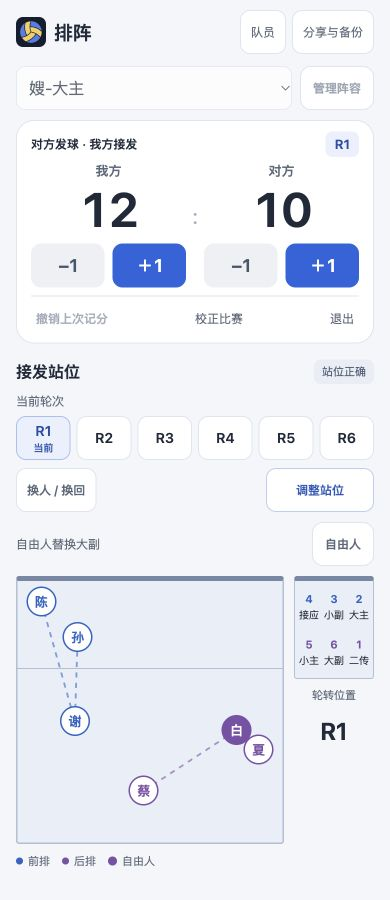
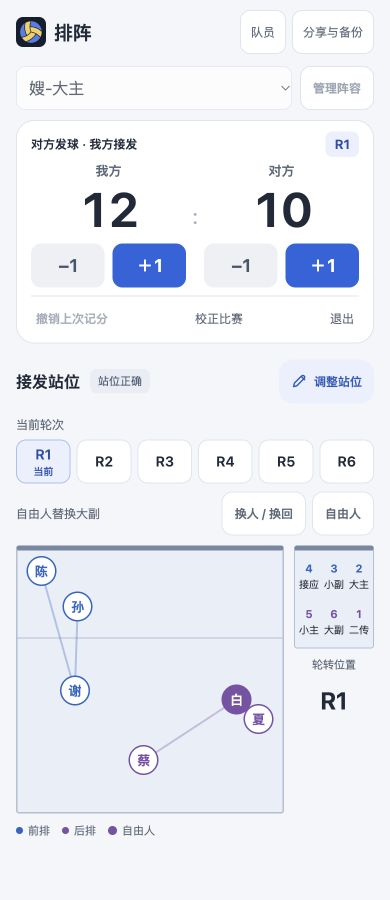
Update Site source

diff --git a/index.html b/index.html
@@ -1,8 +1,8 @@
 <!doctype html><html lang="zh-CN"><head><meta charset="utf-8"><meta name="viewport" content="width=device-width,initial-scale=1,viewport-fit=cover"><meta name="theme-color" content="#f4f6f9"><meta name="apple-mobile-web-app-title" content="排阵"><meta name="apple-mobile-web-app-capable" content="yes"><meta name="apple-mobile-web-app-status-bar-style" content="default"><meta name="description" content="排阵排球战术板：六轮接发站位、记分轮转、换人及离线保存。"><title>排阵 · 排球战术板</title><link rel="manifest" href="./manifest.webmanifest"><link rel="icon" href="./icons/paizhen-192-v2.png" sizes="192x192"><link rel="apple-touch-icon" href="./icons/apple-touch-icon-v2.png" sizes="180x180"><link rel="stylesheet" href="./styles.css"></head><body data-theme="ios"><main class="device" id="device"><div class="app"><header class="topbar"><div class="brand"><div class="brand-mark"><img src="./icons/paizhen-mark.svg" alt="" aria-hidden="true" width="30" height="30"></div><strong>排阵</strong></div><div class="header-tools"><button class="quiet" id="nav-roster">队员</button><button class="quiet" id="help">分享与备份</button></div></header><span id="save-status" role="status" hidden></span><p class="save-error" id="save-error" role="alert" hidden></p><div class="workspace"><div class="match-panel"><div class="lineup-bar"><select id="lineup-select" aria-label="选择阵容"></select><button class="secondary" id="manage-lineups">管理阵容</button></div><section class="welcome" id="welcome"><button class="primary" id="start">开始比赛 / 训练</button></section><section id="scoreboard" class="scoreboard" aria-label="记分板"><div class="score-meta"><strong id="serve-label">对方发球 · 我方接发</strong><span id="match-caption">R1</span></div><div class="score-row"><div><div class="team-name ours" id="team-us">我方</div><div class="score" id="score-us" aria-live="polite" aria-atomic="true">00</div><div class="score-controls"><button class="score-minus" id="minus-us" aria-label="我方减一分">−1</button><button class="score-add" id="add-us" aria-label="我方加一分">＋1</button></div></div><span class="separator">:</span><div class="opponent"><div class="team-name" id="team-them">对方</div><div class="score" id="score-them" aria-live="polite" aria-atomic="true">00</div><div class="score-controls"><button class="score-minus" id="minus-them" aria-label="对方减一分">−1</button><button class="score-add" id="add-them" aria-label="对方加一分">＋1</button></div></div></div><div class="scoreboard-tools"><button class="score-undo" id="undo" disabled>撤销上次记分</button><button class="quiet" id="correct">校正比赛</button><button class="quiet" id="exit">退出</button></div></section>
 </div><section class="tactics-panel">
-<div class="preview-banner" id="preview-banner" hidden><span id="preview-copy"></span><button id="return-current">返回记分</button></div><div class="section-title"><h2 id="court-heading">接发站位</h2><span class="status" id="valid-status">站位关系正确</span></div>
-<section class="round-area"><div class="round-heading"><span id="round-label">当前轮次</span></div><div class="rounds" id="rounds" aria-label="选择预览轮次"></div></section><div class="court-tools"><button class="secondary" id="substitute">换人 / 换回</button><button id="restore-round" hidden>恢复本轮默认</button><button id="cancel-edit" class="quiet" hidden>取消调整</button><button class="secondary" id="edit" aria-pressed="false">调整站位</button></div>
-<div class="libero-bar" id="libero-bar"><span id="libero-status"></span><button class="secondary" id="libero-open">自由人</button></div><section class="court-layout" aria-label="接发阵型"><div class="court-panel"><div class="court" id="court"><svg class="links" viewBox="0 0 100 100" preserveAspectRatio="none" aria-hidden="true"><polyline id="front-link"></polyline><polyline id="back-link"></polyline></svg><div id="players"></div></div><div class="legend"><span><i></i>前排</span><span><i></i>后排</span><span><i style="background:var(--back);width:9px;height:9px"></i>自由人</span></div></div><aside class="mini-aside"><div class="mini-court" id="mini-court" aria-label="标准轮转位置"></div><div class="mini-title">轮转位置</div><div class="mini-round" id="mini-round">R1<small>当前轮次</small></div></aside></section>
+<div class="preview-banner" id="preview-banner" hidden><span id="preview-copy"></span><button id="return-current">返回记分</button></div><div class="section-title"><div class="court-title"><h2 id="court-heading">接发站位</h2><span class="status" id="valid-status">站位关系正确</span></div><button class="court-edit" id="edit" aria-pressed="false"><svg class="edit-icon" viewBox="0 0 20 20" aria-hidden="true"><path d="m12 4 4 4M4 12l8.5-8.5a2.1 2.1 0 0 1 3 3L7 15l-4 1z"/></svg><svg class="done-icon" viewBox="0 0 20 20" aria-hidden="true"><path d="m4 10 4 4 8-8"/></svg><span id="edit-label">调整站位</span></button></div>
+<section class="round-area"><div class="round-heading"><span id="round-label">当前轮次</span></div><div class="rounds" id="rounds" aria-label="选择预览轮次"></div></section><div class="court-tools" id="edit-toolbar" hidden><button id="restore-round" hidden>恢复本轮默认</button><button id="cancel-edit" class="quiet" hidden>取消调整</button></div>
+<div class="libero-bar" id="libero-bar"><span id="libero-status"></span><div class="personnel-tools"><button class="secondary" id="substitute">换人 / 换回</button><button class="secondary" id="libero-open">自由人</button></div></div><section class="court-layout" aria-label="接发阵型"><div class="court-panel"><div class="court" id="court"><svg class="links" viewBox="0 0 100 100" preserveAspectRatio="none" aria-hidden="true"><polyline id="front-link"></polyline><polyline id="back-link"></polyline><g id="relationship-links"></g></svg><div id="players"></div></div><div class="legend"><span><i></i>前排</span><span><i></i>后排</span><span><i style="background:var(--back);width:9px;height:9px"></i>自由人</span></div></div><aside class="mini-aside"><div class="mini-court" id="mini-court" aria-label="标准轮转位置"></div><div class="mini-title">轮转位置</div><div class="mini-round" id="mini-round">R1<small>当前轮次</small></div></aside></section>
 <p id="relation-errors" class="rules-note" aria-live="polite"></p>
 
 </section></div></div></main>
@@ -16,7 +16,7 @@
 <dialog id="libero-dialog" aria-labelledby="libero-title"><form id="libero-form"><div class="dialog-heading"><h2 id="libero-title">自由人</h2><button type="button" data-close aria-label="关闭自由人替换">×</button></div><p id="libero-current"></p><label class="field">替换角色<select id="libero-role"></select></label><label class="confirmation" id="libero-confirm-label"><input type="checkbox" id="libero-confirm">当前为死球，且尚未鸣发球哨</label><p class="form-error" id="libero-error" role="alert"></p><button class="primary" id="libero-submit" style="width:100%" type="submit">确认</button><details id="libero-records"><summary>替换记录</summary><div id="libero-history"></div></details></form></dialog>
 <dialog id="exit-dialog" aria-labelledby="exit-title"><h2 id="exit-title">将这套站位留到下次？</h2><p id="exit-copy"></p><div class="dialog-buttons"><button class="primary" id="exit-save">保存到当前阵容并退出</button><button class="secondary" id="exit-discard">不保存站位并退出</button><button class="quiet" data-close>继续比赛</button></div></dialog>
 <dialog id="confirm-dialog" aria-labelledby="confirm-title"><h2 id="confirm-title">确认操作</h2><p id="confirm-copy"></p><div class="dialog-buttons"><button class="primary" id="confirm-yes">确认</button><button class="secondary" data-close>取消</button></div></dialog>
-<dialog id="help-dialog" aria-labelledby="help-title"><div class="dialog-heading"><h2 id="help-title">分享与备份</h2><button data-close aria-label="关闭使用说明">×</button></div><div class="share-shortcuts"><button class="primary" id="open-share">分享队员与阵型</button><button class="secondary" id="open-import">粘贴链接导入</button></div><div class="help-copy"><h3>记分</h3><p>点击 ＋1 记分，−1 修正分数；误点后使用比分板内的“撤销上次记分”。“校正比赛”可直接修改比分、轮次和发球方。</p><h3>队员与阵型</h3><p>通过顶部阵容选择器切换，使用“管理阵容”新建、复制或重命名。在“队员”中编辑共用名单和当前阵容首发。比赛中使用“换人 / 换回”更换队员。点击“调整站位”后拖动圆圈，再点“完成”；“取消调整”可恢复进入编辑前的站位。六轮按钮用于切换查看，点击“返回 R… 记分”继续记分。</p><h3>保存与备份</h3><p>关闭页面后可继续上次比赛。退出比赛时，选择是否将本场站位保存回当前阵容。通过复制、粘贴分享链接保存或导入队员与阵型。</p><h3>添加到主屏幕</h3><p>在 iPhone Safari 中点击“分享 → 添加到主屏幕”。首次联网打开，等待离线资源准备完成后即可离线使用。</p><p id="offline-status" role="status">离线资源准备中…</p><button class="secondary" id="check-update">检查更新</button><button class="primary" id="apply-update" hidden>更新应用</button><a class="update-link" href="./update.html">打不开新版？进入独立更新页</a><p class="app-version">版本 2026.10.22.2</p></div></dialog>
+<dialog id="help-dialog" aria-labelledby="help-title"><div class="dialog-heading"><h2 id="help-title">分享与备份</h2><button data-close aria-label="关闭使用说明">×</button></div><div class="share-shortcuts"><button class="primary" id="open-share">分享队员与阵型</button><button class="secondary" id="open-import">粘贴链接导入</button></div><div class="help-copy"><h3>记分</h3><p>点击 ＋1 记分，−1 修正分数；误点后使用比分板内的“撤销上次记分”。“校正比赛”可直接修改比分、轮次和发球方。</p><h3>队员与阵型</h3><p>通过顶部阵容选择器切换，使用“管理阵容”新建、复制或重命名。在“队员”中编辑共用名单和当前阵容首发。比赛中使用“换人 / 换回”更换队员。点击“调整站位”后拖动圆圈，再点“完成”；“取消调整”可恢复进入编辑前的站位。六轮按钮用于切换查看，点击“返回 R… 记分”继续记分。</p><h3>保存与备份</h3><p>关闭页面后可继续上次比赛。退出比赛时，选择是否将本场站位保存回当前阵容。通过复制、粘贴分享链接保存或导入队员与阵型。</p><h3>添加到主屏幕</h3><p>在 iPhone Safari 中点击“分享 → 添加到主屏幕”。首次联网打开，等待离线资源准备完成后即可离线使用。</p><p id="offline-status" role="status">离线资源准备中…</p><button class="secondary" id="check-update">检查更新</button><button class="primary" id="apply-update" hidden>更新应用</button><a class="update-link" href="./update.html">打不开新版？进入独立更新页</a><p class="app-version">版本 2026.10.22.3</p></div></dialog>
 <dialog id="share-dialog" aria-labelledby="share-title"><div class="dialog-heading"><h2 id="share-title">分享队员与阵型</h2><button data-close aria-label="关闭分享">×</button></div><label class="field">分享内容<select id="share-source"></select></label><p class="share-summary" id="share-summary"></p><label class="field">分享链接<textarea id="share-link" rows="3" readonly aria-label="生成的分享链接"></textarea></label><p class="share-note">短链接通过 da.gd 在线生成。收到链接的人可导入名单、六轮阵型和自由人预设，不包含比分或比赛记录。</p><p class="form-error" id="share-error" role="alert"></p><div class="share-actions"><button class="primary" id="copy-share" disabled>复制短链接</button><button class="secondary" id="copy-full-share" disabled>复制完整链接（可离线生成）</button></div></dialog>
 <dialog id="import-dialog" aria-labelledby="import-title"><div class="dialog-heading"><h2 id="import-title">从链接导入</h2><button data-close aria-label="关闭链接导入">×</button></div><label class="field">队友的分享链接<textarea id="import-link" rows="4" placeholder="在这里粘贴队友的短链接或完整链接" spellcheck="false" autocapitalize="off"></textarea></label><button class="primary" id="preview-import" style="width:100%">预览队员与阵型</button><p class="form-error" id="import-error" role="alert"></p></dialog>
 <dialog id="import-preview-dialog" aria-labelledby="import-preview-title"><div class="dialog-heading"><h2 id="import-preview-title">导入队员与阵型</h2><button data-close aria-label="取消导入">×</button></div><p class="share-summary" id="import-summary"></p><div class="import-lineup" id="import-lineup"></div><p class="share-note">作为新阵容导入，保留已有阵容；同名同位置队员复用，其他队员加入共用名单。</p><p class="form-error" id="import-preview-error" role="alert"></p><div class="dialog-buttons"><button class="primary" id="apply-import">确认导入</button><button class="secondary" data-close>取消</button></div></dialog>

diff --git a/app.js b/app.js
@@ -2,9 +2,10 @@ import {activateLatest} from './updates.js';
 import {DEFAULT_LIBERO_ROLES,defaultLiberoChoices,migrateLiberoState,eligibleLiberoRoles,rolePosition,liberoReplacementError,setLibero,calibrateLibero} from './libero.js';
 import {shortenLink} from './shortlinks.js';
 import {templateSnapshot,makeShareLink,parseShareLink,importTemplate} from './sharing.js';
-import {ROLES,PLAYER_POSITIONS,shortName,resolvePlayerPosition,POSITIONS,clone,id,createState,startMatch,roleAt,displayedPlayer,scorePoint,undoPoint,correctMatch,checkFormation,substitute,returnStarter,endMatch,validateState,saveRoster,migrateLineups,syncLineup,createLineup,selectLineup,renameLineup,deleteLineup,nextLineupName} from './core.js';
+import {ROLES,PLAYER_POSITIONS,shortName,resolvePlayerPosition,POSITIONS,clone,id,createState,startMatch,roleAt,displayedPlayer,scorePoint,undoPoint,correctMatch,checkFormation,positionRelations,substitute,returnStarter,endMatch,validateState,saveRoster,migrateLineups,syncLineup,createLineup,selectLineup,renameLineup,deleteLineup,nextLineupName} from './core.js';
 import {openStore,readState,writeState} from './storage.js';
 const $=id=>document.getElementById(id);
+let activePosition=null,dragCleanup=null;
 let state,viewRound=0,editing=false,editSnapshot=null,mode='match',saveQueue=Promise.resolve(),revision=0,storageBlocked=false,rosterDraft=[],rosterLineup=[],rosterLiberoPlan=[],confirmAction,rosterReturnToSub=false,toastTimer,workerRegistration,updateRequested=false,checkForAppUpdate=async()=>{};
 function el(tag,props={},...children){const e=document.createElement(tag);for(const [k,v]of Object.entries(props)){if(k==='text')e.textContent=v;else if(k==='class')e.className=v;else e.setAttribute(k,v)}for(const c of children)e.append(c);return e}
 const playerName=pid=>state.players.find(p=>p.id===pid)?.name||'未安排';
@@ -19,6 +20,7 @@ function active(){return state.match||{lineup:state.lineup,formations:state.form
 function formations(){return mode==='default'?state.formations:active().formations;}
 function finishEditing(){if(editing){editing=false;editSnapshot=null;save();render();}}
 function render(){
+  clearRelationshipFocus(false);
   const m=active(),hasMatch=!!state.match,preview=hasMatch&&viewRound!==m.round;
   selectOptions($('lineup-select'),state.lineupSets.map(x=>({value:x.id,label:x.name})),state.activeLineupId);
   $('lineup-select').disabled=hasMatch||editing;$('manage-lineups').disabled=hasMatch||editing;
@@ -36,14 +38,14 @@ function render(){
   const server=hasMatch?playerName(m.lineup[roleAt(1,m.round)]):'';
   $('serve-label').textContent=!hasMatch?'未开始':m.serving?`我方发球 · ${server}`:'对方发球 · 我方接发';
   $('court-heading').textContent=!hasMatch?'接发阵型':preview?`R${viewRound+1} 接发预览`:m.serving?'接发预览':'接发站位';
-  $('preview-banner').hidden=!preview&&!editing;
+  $('preview-banner').hidden=!preview||editing;
   $('preview-copy').textContent=editing?`调整 R${viewRound+1} 站位`:`查看 R${viewRound+1} · 比赛 R${m.round+1}`;
   $('players').replaceChildren();$('mini-court').replaceChildren();
   for(const p of POSITIONS){
     const {player,role,libero,back}=displayedPlayer(state,m,p,viewRound);
     const full=player?.name||'未安排',short=shortName(player?.name);
     const b=el('button',{class:'player'+(back?' back':'')+(libero?' libero':''),'data-position':p,'aria-label':`${full}，${libero?'自由人替换'+ROLES[role]:ROLES[role]}，${back?'后排':'前排'}，${p}号位`,title:`${full} · ${libero?'自由人（替换'+ROLES[role]+'）':ROLES[role]}`},el('b',{text:short}));
-    b.disabled=!editing;b.addEventListener('pointerdown',startDrag);b.addEventListener('keydown',e=>moveByKeyboard(e,p));$('players').append(b);
+    b.disabled=!editing;b.addEventListener('pointerdown',startDrag);b.addEventListener('keydown',e=>moveByKeyboard(e,p));b.addEventListener('blur',()=>{if(!dragCleanup&&activePosition===p)clearRelationshipFocus();});$('players').append(b);
     const original=state.players.find(x=>x.id===m.lineup[role]);
     const cell=el('div',{class:'mini-cell'},el('i',{text:p}),el('span',{text:ROLES[role]}));
     cell.title=libero?`${full}替换${original?.name||ROLES[role]}`:full;$('mini-court').append(cell);
@@ -57,7 +59,7 @@ function render(){
   $('round-label').textContent=preview?'查看轮次':'当前轮次';
   $('rounds').setAttribute('aria-label','选择查看轮次');
   $('return-current').hidden=!preview||editing;$('return-current').textContent=`返回 R${m.round+1} 记分`;
-  $('court').classList.toggle('editing',editing);$('edit').textContent=editing?'完成':'调整站位';$('cancel-edit').hidden=!editing;
+  $('court').classList.toggle('editing',editing);$('edit-label').textContent=editing?'完成':'调整站位';$('edit-toolbar').hidden=!editing;$('cancel-edit').hidden=!editing;
   $('edit').setAttribute('aria-pressed',String(editing));
   $('restore-round').hidden=!editing;
   $('restore-round').textContent=mode==='default'?'本轮恢复规整站位':'恢复本轮已存站位';
@@ -68,22 +70,41 @@ function render(){
   $('libero-open').disabled=!m.lineup[6]||preview;
   updateGeometry();
 }
+function clearRelationshipFocus(update=true){
+  const cleanup=dragCleanup;dragCleanup=null;cleanup?.();activePosition=null;
+  if(update)updateGeometry();
+}
 function updateGeometry(){
   const coords=formations()[viewRound],errors=checkFormation(coords),bad=new Set(errors.flatMap(e=>e.positions));
+  const relations=activePosition===null?[]:positionRelations(coords,activePosition),neighbors=new Set(relations.map(r=>r.neighbor));
+  $('court').classList.toggle('has-active-player',activePosition!==null);
   for(const [name,positions,color]of [['front',[4,3,2],'var(--front)'],['back',[5,6,1],'var(--back)']]){
-    const line=$(name+'-link');line.setAttribute('points',positions.map(p=>coords[p].join(',')).join(' '));line.style.stroke=positions.some(p=>bad.has(p))?'#e45568':color;
+    const line=$(name+'-link');line.setAttribute('points',positions.map(p=>coords[p].join(',')).join(' '));line.style.stroke=positions.some(p=>bad.has(p))?'var(--error)':color;
   }
-  document.querySelectorAll('.player').forEach(b=>{const p=+b.dataset.position;b.style.left=coords[p][0]+'%';b.style.top=coords[p][1]+'%';b.classList.toggle('invalid',bad.has(p));});
+  $('relationship-links').replaceChildren(...relations.map(r=>{
+    const line=document.createElementNS('http://www.w3.org/2000/svg','line');
+    for(const [key,value]of Object.entries({x1:coords[r.from][0],y1:coords[r.from][1],x2:coords[r.to][0],y2:coords[r.to][1],class:'relation-link'+(r.valid?'':' invalid'),'data-from':r.from,'data-to':r.to}))line.setAttribute(key,value);
+    line.style.stroke=r.valid?([4,3,2].includes(activePosition)?'var(--front)':'var(--back)'):'var(--error)';return line;
+  }));
+  document.querySelectorAll('.player').forEach(b=>{const p=+b.dataset.position;b.style.left=coords[p][0]+'%';b.style.top=coords[p][1]+'%';b.classList.toggle('invalid',bad.has(p));b.classList.toggle('selected-player',activePosition===p);b.classList.toggle('related-player',neighbors.has(p));b.classList.toggle('unrelated-player',activePosition!==null&&activePosition!==p&&!neighbors.has(p));});
   $('valid-status').textContent=errors.length?'站位需调整':'站位正确';$('valid-status').classList.toggle('error',!!errors.length);
   $('relation-errors').textContent=errors.map(e=>e.message).join('；');$('relation-errors').hidden=!errors.length;
 }
 function startDrag(e){
-  if(!editing)return;e.preventDefault();const b=e.currentTarget,p=+b.dataset.position,start=[e.clientX,e.clientY],origin=[...formations()[viewRound][p]],rect=$('court').getBoundingClientRect();b.setPointerCapture(e.pointerId);
-  const move=event=>{formations()[viewRound][p]=[Math.max(9,Math.min(91,origin[0]+(event.clientX-start[0])/rect.width*100)),Math.max(8,Math.min(92,origin[1]+(event.clientY-start[1])/rect.height*100))];updateGeometry();};
-  const stop=()=>{b.removeEventListener('pointermove',move);b.removeEventListener('pointerup',stop);b.removeEventListener('pointercancel',stop);};
-  b.addEventListener('pointermove',move);b.addEventListener('pointerup',stop);b.addEventListener('pointercancel',stop);
+  if(!editing||e.isPrimary===false||e.button!==0)return;
+  e.preventDefault();clearRelationshipFocus(false);
+  const b=e.currentTarget,p=+b.dataset.position,start=[e.clientX,e.clientY],origin=[...formations()[viewRound][p]],rect=$('court').getBoundingClientRect();
+  activePosition=p;b.setPointerCapture(e.pointerId);updateGeometry();
+  const move=event=>{if(event.pointerId!==e.pointerId)return;formations()[viewRound][p]=[Math.max(9,Math.min(91,origin[0]+(event.clientX-start[0])/rect.width*100)),Math.max(8,Math.min(92,origin[1]+(event.clientY-start[1])/rect.height*100))];updateGeometry();};
+  const stop=event=>{if(event.pointerId===e.pointerId)clearRelationshipFocus();};
+  dragCleanup=()=>{b.removeEventListener('pointermove',move);for(const type of ['pointerup','pointercancel','lostpointercapture'])b.removeEventListener(type,stop);if(b.hasPointerCapture(e.pointerId))b.releasePointerCapture(e.pointerId);};
+  b.addEventListener('pointermove',move);for(const type of ['pointerup','pointercancel','lostpointercapture'])b.addEventListener(type,stop);
 }
-function moveByKeyboard(e,p){if(!editing||!['ArrowUp','ArrowDown','ArrowLeft','ArrowRight'].includes(e.key))return;e.preventDefault();const [x,y]=formations()[viewRound][p];formations()[viewRound][p]=[Math.max(9,Math.min(91,x+(e.key==='ArrowRight'?1:e.key==='ArrowLeft'?-1:0))),Math.max(8,Math.min(92,y+(e.key==='ArrowDown'?1:e.key==='ArrowUp'?-1:0)))];updateGeometry();}
+function moveByKeyboard(e,p){
+  if(!editing||!['ArrowUp','ArrowDown','ArrowLeft','ArrowRight'].includes(e.key))return;
+  e.preventDefault();activePosition=p;const [x,y]=formations()[viewRound][p];
+  formations()[viewRound][p]=[Math.max(9,Math.min(91,x+(e.key==='ArrowRight'?1:e.key==='ArrowLeft'?-1:0))),Math.max(8,Math.min(92,y+(e.key==='ArrowDown'?1:e.key==='ArrowUp'?-1:0)))];updateGeometry();
+}
 function run(action){try{action();save();render();}catch(e){toast(e.message)}}
 function selectOptions(select,options,value){select.replaceChildren(...options.map(o=>el('option',{value:o.value,text:o.label})));if(value!==undefined)select.value=String(value);}
 function roundOptions(select,value){selectOptions(select,Array.from({length:6},(_,i)=>({value:i,label:'R'+(i+1)})),value)}

diff --git a/styles.css b/styles.css
@@ -60,8 +60,15 @@ button:focus-visible, input:focus-visible, select:focus-visible, textarea:focus-
 .scoreboard-tools button { min-height: 44px; padding: 0 5px; font-size: 12px; }
 .score-undo { color: var(--accent); font-weight: 550; }
 .scoreboard-tools button:disabled { color: #a6aebb; }
-.section-title { display: flex; align-items: center; justify-content: space-between; gap: 8px; margin: 0 0 8px; }
+.section-title { display: flex; align-items: center; justify-content: space-between; gap: 12px; margin: 0 0 12px; }
+.court-title { display: flex; flex-wrap: wrap; align-items: center; gap: 6px 10px; min-width: 0; }
 .section-title h2 { margin: 0; font-size: 16px; font-weight: 650; }
+#edit { display: inline-flex; align-items: center; justify-content: center; gap: 6px; flex-shrink: 0; min-height: 44px; padding: 0 12px; border: 0; border-radius: 14px; background: var(--soft); color: #275abd; font-size: 12px; font-weight: 600; }
+#edit svg { width: 17px; height: 17px; fill: none; stroke: currentColor; stroke-width: 1.7; stroke-linecap: round; stroke-linejoin: round; }
+#edit .done-icon { display: none; }
+#edit[aria-pressed=true] { background: var(--accent); color: white; }
+#edit[aria-pressed=true] .edit-icon { display: none; }
+#edit[aria-pressed=true] .done-icon { display: block; }
 .status { flex-shrink: 0; padding: 4px 8px; border-radius: 7px; background: #e9eef5; color: #4a5c73; font-size: 11px; white-space: nowrap; }
 .status.error { background: #ffedf0; color: var(--error); }
 .round-area { margin-bottom: 8px; }
@@ -71,18 +78,20 @@ button:focus-visible, input:focus-visible, select:focus-visible, textarea:focus-
 .round[aria-pressed=true] { border-color: #a7c1f2; background: var(--soft); color: #214eaa; }
 .round small { display: block; margin-top: 2px; color: #214eaa; font-size: 10px; font-weight: 450; }
 .round small:empty { display: none; }
-.court-tools { display: flex; align-items: center; gap: 6px; margin-bottom: 10px; }
-.court-tools button { min-height: 44px; padding: 0 10px; border-radius: 10px; font-size: 12px; }
-#edit { margin-left: auto; min-width: 108px; border: 1px solid #becfed; background: var(--card); color: #275abd; }
-#edit[aria-pressed=true] { min-width: 72px; border-color: var(--accent); background: var(--accent); color: white; }
-#restore-round { background: #e8edf4; color: #526175; }
-#cancel-edit { padding: 0 8px; color: var(--muted); }
+.court-tools { display: flex; align-items: center; justify-content: space-between; gap: 8px; margin: 0 0 10px; padding: 0 2px; }
+.court-tools button { min-height: 44px; padding: 0 8px; border-radius: 10px; font-size: 12px; background: transparent; color: var(--muted); }
+#restore-round { order: 1; color: #275abd; }
+.personnel-tools { display: flex; align-items: center; gap: 6px; }
+.personnel-tools button { font-size: 12px; padding: 0 9px; }
 .court-layout { display: grid; grid-template-columns: minmax(0, 1fr) 80px; align-items: start; gap: 10px; }
 .court { position: relative; width: 100%; aspect-ratio: 1; overflow: hidden; isolation: isolate; border: 1.5px solid var(--court-line); border-top: 5px solid var(--net); border-radius: 3px; background: var(--court); }
 .court::before { content: ""; position: absolute; left: 0; right: 0; top: 33.333%; border-top: 1px solid var(--court-line); pointer-events: none; }
 .court.editing { box-shadow: 0 0 0 2px #2864df24; }
 .links { position: absolute; inset: 0; width: 100%; height: 100%; pointer-events: none; z-index: 1; }
-.links polyline { fill: none; stroke-width: .7; stroke-dasharray: 2 2; opacity: .58; }
+.links polyline { fill: none; stroke-width: 2; stroke-linecap: round; stroke-linejoin: round; vector-effect: non-scaling-stroke; opacity: .32; transition: opacity 120ms ease; }
+.has-active-player .links polyline { opacity: .1; }
+.relation-link { stroke-width: 1.7; stroke-dasharray: 4 5; stroke-linecap: round; vector-effect: non-scaling-stroke; opacity: .8; }
+.relation-link.invalid { opacity: 1; }
 .player { position: absolute; z-index: 2; transform: translate(-50%, -50%); display: flex; align-items: center; justify-content: center; width: 30px; height: 30px; min-height: 30px; padding: 0; border: 1.5px solid var(--front); border-radius: 50%; background: var(--card); color: var(--front); line-height: 1; user-select: none; -webkit-user-select: none; touch-action: manipulation; }
 .player:disabled { color: var(--front); cursor: default; }
 .player:active:not(:disabled) { transform: translate(-50%, -50%); }
@@ -93,6 +102,14 @@ button:focus-visible, input:focus-visible, select:focus-visible, textarea:focus-
 .player.invalid { border: 2px solid #dc425b; box-shadow: 0 0 0 3px #dc425b1a; }
 .editing .player { touch-action: none; cursor: grab; box-shadow: 0 0 0 3px #ffffff90; }
 .editing .player:active { cursor: grabbing; }
+.editing .player { transition: box-shadow 120ms ease, opacity 120ms ease, transform 120ms ease; }
+.editing .player.related-player { box-shadow: 0 0 0 4px color-mix(in srgb, currentColor 15%, transparent); }
+.editing .player.selected-player { z-index: 3; transform: translate(-50%, -50%) scale(1.12); box-shadow: 0 0 0 6px color-mix(in srgb, var(--front) 15%, transparent); }
+.editing .player.selected-player.back { box-shadow: 0 0 0 6px color-mix(in srgb, var(--back) 15%, transparent); }
+.editing .player.invalid { box-shadow: 0 0 0 4px #dc425b24; }
+.editing .player.selected-player.invalid { box-shadow: 0 0 0 6px #dc425b24; }
+.editing .player.unrelated-player { opacity: .38; }
+@media (prefers-reduced-motion: reduce) { .editing .player, .links polyline { transition: none; } }
 .player:focus-visible { outline: 3px solid #182e4d; outline-offset: 3px; }
 .legend { display: flex; gap: 12px; margin-top: 9px; color: var(--muted); font-size: 11px; }
 .legend span { display: flex; align-items: center; gap: 5px; }
@@ -155,7 +172,7 @@ textarea { min-height: 88px; padding: 11px; font-size: 16px; resize: vertical; o
 @media (max-width: 350px) {
   .app { padding-left: 10px; padding-right: 10px; }
   .header-tools button { padding: 0 7px; }
-  #edit { min-width: 96px; }
+  #edit { padding: 0 10px; }
   .court-layout { grid-template-columns: minmax(0, 1fr) 76px; }
   .roster-fields, .small-labels { grid-template-columns: minmax(0, 1fr) 96px 44px; gap: 6px; }
 }

diff --git a/update.html b/update.html
@@ -1,1 +1,1 @@
-<!doctype html><html lang="zh-CN"><head><meta charset="utf-8"><meta name="viewport" content="width=device-width,initial-scale=1,viewport-fit=cover"><meta name="theme-color" content="#f4f6f9"><meta name="robots" content="noindex"><title>更新排阵</title><style>html,body,button,a{touch-action:manipulation}body{margin:0;padding:24px 16px;background:#f4f6f9;color:#202a3a;font:16px/1.7 -apple-system,BlinkMacSystemFont,"PingFang SC",sans-serif}main{max-width:400px;margin:10vh auto;background:white;border:1px solid #dfe5ee;border-radius:20px;padding:24px}h1{font-size:23px;margin:0 0 12px}p{font-size:14px;color:#5c687a}button,a{display:block;box-sizing:border-box;width:100%;min-height:46px;border:0;border-radius:11px;text-align:center;font:inherit;padding:10px;background:#2864df;color:white;text-decoration:none}button:disabled{background:#e9edf4;color:#78869d}a{margin-top:12px;background:#edf0f5;color:#46556a}[hidden]{display:none}#status{overflow-wrap:anywhere}</style></head><body><main><h1>更新排阵</h1><p>先在原页面完成正在编辑的内容。更新会保留本机队员、阵容和已保存的比赛。</p><button id="update">检查并更新应用</button><p id="status" role="status" aria-live="polite">请保持联网，更新完成后返回应用。</p><a href="./" id="return" hidden>打开排阵</a></main><script type="module" src="./update.js?v=20261022-2"></script></body></html>
+<!doctype html><html lang="zh-CN"><head><meta charset="utf-8"><meta name="viewport" content="width=device-width,initial-scale=1,viewport-fit=cover"><meta name="theme-color" content="#f4f6f9"><meta name="robots" content="noindex"><title>更新排阵</title><style>html,body,button,a{touch-action:manipulation}body{margin:0;padding:24px 16px;background:#f4f6f9;color:#202a3a;font:16px/1.7 -apple-system,BlinkMacSystemFont,"PingFang SC",sans-serif}main{max-width:400px;margin:10vh auto;background:white;border:1px solid #dfe5ee;border-radius:20px;padding:24px}h1{font-size:23px;margin:0 0 12px}p{font-size:14px;color:#5c687a}button,a{display:block;box-sizing:border-box;width:100%;min-height:46px;border:0;border-radius:11px;text-align:center;font:inherit;padding:10px;background:#2864df;color:white;text-decoration:none}button:disabled{background:#e9edf4;color:#78869d}a{margin-top:12px;background:#edf0f5;color:#46556a}[hidden]{display:none}#status{overflow-wrap:anywhere}</style></head><body><main><h1>更新排阵</h1><p>先在原页面完成正在编辑的内容。更新会保留本机队员、阵容和已保存的比赛。</p><button id="update">检查并更新应用</button><p id="status" role="status" aria-live="polite">请保持联网，更新完成后返回应用。</p><a href="./" id="return" hidden>打开排阵</a></main><script type="module" src="./update.js?v=20261022-3"></script></body></html>

diff --git a/tests/position-relations.test.js b/tests/position-relations.test.js
@@ -1,0 +1,32 @@
+import test from 'node:test';
+import assert from 'node:assert/strict';
+import {positionRelations,checkFormation,standardFormations} from '../core.js';
+
+test('drag guides use only the rule neighbors of each rotation position',()=>{
+ const coords=standardFormations()[0];
+ const expected={1:[2,6],2:[1,3],3:[2,4,6],4:[3,5],5:[4,6],6:[1,3,5]};
+ for(const [position,neighbors]of Object.entries(expected)){
+  const guides=positionRelations(coords,+position);
+  assert.deepEqual(guides.map(g=>g.neighbor).sort(),neighbors);
+  assert.ok(guides.every(g=>g.valid));
+ }
+ // Nearness is irrelevant: dragging 4 close to 1 does not add a 4–1 constraint.
+ coords[4]=[78,73];
+ assert.deepEqual(positionRelations(coords,4).map(g=>g.neighbor).sort(),[3,5]);
+});
+
+test('guide validity agrees with center-point validation for equality and crossing',()=>{
+ for(const position of [1,2,3,4,5,6]){
+  const original=standardFormations()[0];
+  for(const relation of positionRelations(original,position)){
+   for(const offset of [0,1]){
+    const coords=structuredClone(original);
+    coords[relation.from][relation.axis]=coords[relation.to][relation.axis]+offset;
+    const guides=positionRelations(coords,position);
+    const guide=guides.find(g=>g.neighbor===relation.neighbor);
+    assert.equal(guide.valid,false);
+    for(const g of guides)assert.equal(!g.valid,checkFormation(coords).some(e=>e.positions[0]===g.from&&e.positions[1]===g.to));
+   }
+  }
+ }
+});

diff --git a/core.js b/core.js
@@ -66,9 +66,14 @@ export function correctMatch(match,{score,round,serving,liberoRole}) {
   if(liberoRole===undefined&&role!==null&&!eligibleLiberoRoles(next).includes(role))role=null;
   calibrateLibero(next,role,{deadBallConfirmed:true});Object.assign(match,next);
 }
+// The same ordered pairs drive center-point validation and editing guides.
+export const POSITION_RELATIONS=Object.freeze([[4,3,0],[3,2,0],[5,6,0],[6,1,0],[4,5,1],[3,6,1],[2,1,1]].map(Object.freeze));
+export function positionRelations(coords,position) {
+  return POSITION_RELATIONS.filter(([a,b])=>a===position||b===position).map(([from,to,axis])=>({from,to,axis,neighbor:from===position?to:from,valid:coords[from][axis]<coords[to][axis]}));
+}
 export function checkFormation(coords) {
   const errors=[];
-  for(const [a,b,axis] of [[4,3,0],[3,2,0],[5,6,0],[6,1,0],[4,5,1],[3,6,1],[2,1,1]]) {
+  for(const [a,b,axis] of POSITION_RELATIONS) {
     if(coords[a][axis]>=coords[b][axis])errors.push({positions:[a,b],message:axis===0?`${a}号位应在${b}号位左侧`:`${a}号位应在${b}号位前方`});
   }
   return errors;

diff --git a/sw.js b/sw.js
@@ -1,4 +1,4 @@
-const CACHE='lunjian-v18';
+const CACHE='lunjian-v19';
 const SHELL=['./','./index.html','./styles.css','./app.js','./updates.js','./core.js','./libero.js','./shortlinks.js','./sharing.js','./storage.js','./manifest.webmanifest','./icons/paizhen-192-v2.png','./icons/paizhen-512-v2.png','./icons/apple-touch-icon-v2.png','./icons/paizhen-mark.svg'];
 const BASE=new URL('./',self.location.href);
 const URLS=new Set(SHELL.map(p=>new URL(p,BASE).href));

diff --git a/README.md b/README.md
@@ -32,7 +32,7 @@
     <th>首发角色（局部）</th>
   </tr>
   <tr>
-    <td valign="top"><a href="docs/showcase/receive.png"><img src="docs/showcase/receive.png" alt="作者阵容的接发站位，显示前后排虚线及标准轮转小图" width="250" /></a></td>
+    <td valign="top"><a href="docs/showcase/receive.png"><img src="docs/showcase/receive.png" alt="作者阵容的接发站位，显示前后排半透明连线及标准轮转小图" width="250" /></a></td>
     <td valign="top"><a href="docs/showcase/match.png"><img src="docs/showcase/match.png" alt="比赛界面，同时显示比分、发球方、轮次和接发阵型" width="250" /></a></td>
     <td valign="top"><a href="docs/showcase/roster.png"><img src="docs/showcase/roster.png" alt="首发角色分配与自由人替换角色设置" width="250" /></a></td>
   </tr>
@@ -41,7 +41,7 @@
 | 功能 | 可以做什么 |
 | --- | --- |
 | 六轮接发阵型 | 从规整的前三人、后三人开始，拖动队员圆圈，分别保存六轮站位。 |
-| 直观校对 | 用颜色与虚线区分前后排，用标准轮转小图核对角色；站位关系异常时给出红色提示。 |
+| 直观校对 | 用颜色与半透明实线区分前后排；拖动队员时显示相邻位置关系虚线，异常关系实时标红。标准轮转小图用于核对角色。 |
 | 比赛记分与轮转 | 双方加减分、撤销、手动校正比分和轮次；根据记分顺序跟踪发球权及我方轮转。 |
 | 多套阵容 | 共用一份队员名单，分别保存首发、六轮站位与自由人预设；支持新建、复制、重命名。 |
 | 临场调整 | 修改本场站位、普通换人／换回；手动选择自由人是否上场及替换角色，检查后排身份与替换间隔。 |
